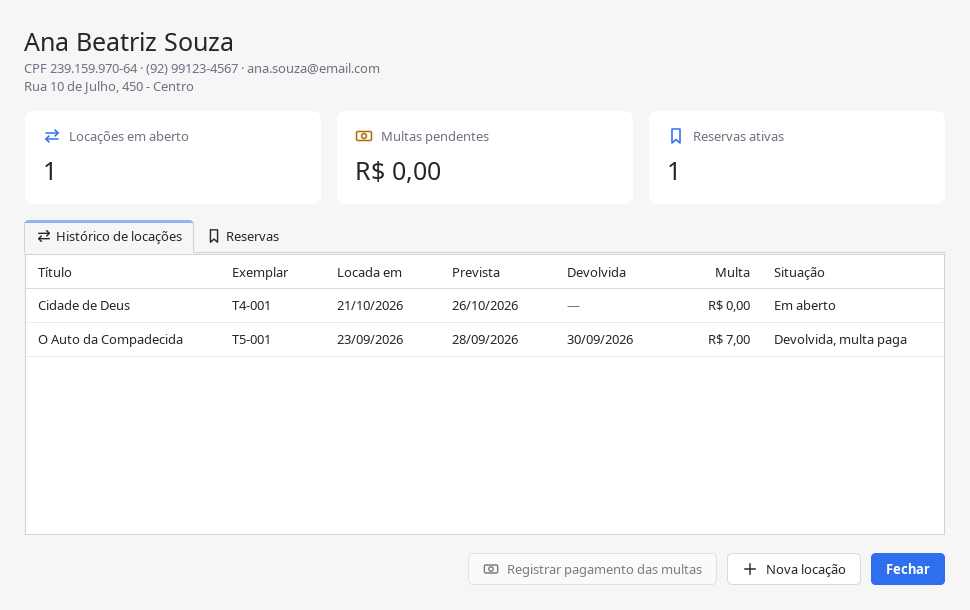
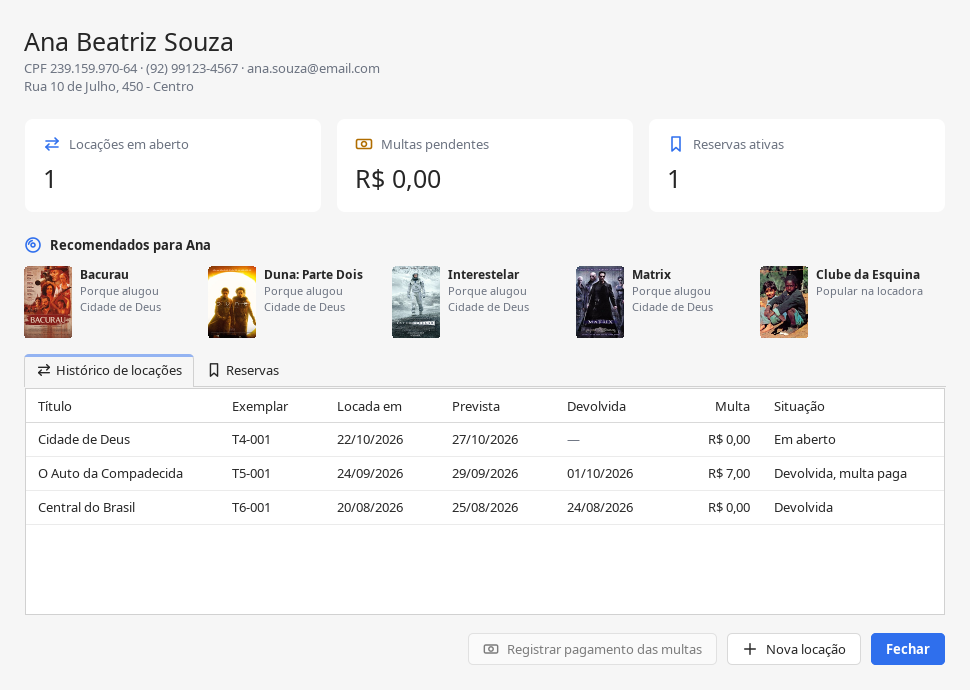
atualiza readme com capas, recomendacoes e busca aproximada

diff --git a/README.md b/README.md
@@ -2,8 +2,8 @@
 
 ![CI](https://github.com/AleJr16/locadora/actions/workflows/ci.yml/badge.svg)
 ![Java 17](https://img.shields.io/badge/Java-17-007396)
-![Testes](https://img.shields.io/badge/testes-156%20passando-brightgreen)
-![Cobertura](https://img.shields.io/badge/cobertura%20(model%2C%20dao%2C%20service)-98%25-brightgreen)
+![Testes](https://img.shields.io/badge/testes-173%20passando-brightgreen)
+![Cobertura](https://img.shields.io/badge/cobertura%20(model%2C%20dao%2C%20service)-97%25-brightgreen)
 
 Sistema desktop para a gestão de uma locadora de **Blu-rays, DVDs, CDs e fitas de vídeo**: acervo, clientes,
 locações e devoluções com multa, fila de reservas, aquisições, perdas e controle de acesso por cargo.
@@ -19,13 +19,15 @@ Autor: **Alexandre Pereira**.
 |---|---|
 | **Login e perfis** | Funcionários entram com login e senha (hash SHA-256 com sal). Gerentes veem tudo; atendentes não registram aquisições, perdas nem funcionários. |
 | **Painel** | Locações em aberto, atrasadas, multas em aberto, faturamento do mês, títulos no acervo e reservas prontas, além das próximas devoluções e das atrasadas. |
-| **Títulos** | Cadastro por tipo de mídia, busca e filtro por tipo, número de exemplares por situação e detalhe com a **linha do tempo** de cada exemplar. |
-| **Clientes** | Cadastro com validação de CPF, ficha com histórico, multas pendentes e reservas. Quem deve multa aparece em vermelho. |
+| **Títulos** | Cadastro por tipo de mídia com **capa e sinopse automáticas** (Wikipédia), busca e filtro por tipo, número de exemplares por situação e detalhe com a **linha do tempo** de cada exemplar. |
+| **Clientes** | Cadastro com validação de CPF, ficha com histórico, multas pendentes, reservas e **recomendações**. Quem deve multa aparece em vermelho. |
+| **Recomendações** | "Quem alugou isso também alugou": sugere títulos que clientes com gosto parecido alugaram, mostrando o porquê ("porque alugou Cidade de Deus"). Sem histórico, sugere os mais alugados. Na nova locação, um clique na sugestão já escolhe o exemplar. |
 | **Locações** | Nova locação (só cliente ativo, sem multa e com até 3 locações abertas), devolução com prévia da multa, pagamento de multa e renovação. |
 | **Reservas** | Fila de espera por título indisponível. Quando um exemplar volta ou é comprado, ele fica separado para o primeiro da fila. |
 | **Aquisições** | Compra de título existente ou novo, gerando exemplares com códigos sequenciais (`T7-004`). |
 | **Perdas** | Exemplar perdido nunca volta a ser alugado. Se estava alugado, o cliente é cobrado do custo mais a multa até a data. |
 | **Busca global** | `Ctrl+K` acha título, cliente (nome ou CPF) ou exemplar (código) e abre a tela certa. |
+| **Busca aproximada** | Todas as buscas ignoram acento e pontuação e toleram erro de digitação: "matirx" acha *Matrix*, "estar wars" acha *Star Wars*. |
 | **Arquivo** | Exportação de qualquer tabela para CSV (abre no Excel com acentos), backup e restauração do banco. |
 | **Interface** | Tema claro e escuro, ícones desenhados em Java2D, atalhos `Ctrl+1…8`, estados vazios e confirmação antes de ações irreversíveis. |
 
@@ -47,7 +49,12 @@ As datas do exemplo são relativas ao dia de hoje, então sempre há locações 
 | `joana` | `joana123` | Atendente |
 | `marcos` | `marcos123` | Atendente |
 
-Para recomeçar do zero, basta apagar o `locadora.db`.
+Para recomeçar do zero, basta apagar o `locadora.db`. Quem rodou uma versão anterior precisa apagá-lo uma vez,
+porque o esquema ganhou a coluna da capa.
+
+**Internet é opcional.** As capas dos títulos de exemplo vêm dentro do jar. Ao cadastrar um título novo, o sistema
+busca a capa e a sinopse na Wikipédia em português depois de uma pausa na digitação. Sem internet, o cadastro
+funciona igual e o título fica com o ícone da mídia no lugar da capa.
 
 ## Arquitetura
 
@@ -147,6 +154,9 @@ SQLite via JDBC puro, sem ORM. O esquema está em `src/main/resources/schema.sql
 - Chaves estrangeiras ligadas em toda conexão.
 - Operações que mexem em várias tabelas (locar, devolver, adquirir, perder, cancelar reserva) rodam numa transação
   só, com `commit` ou `rollback`.
+- A capa do título fica numa coluna `BLOB`, que também serve de cache da busca na internet.
+- As recomendações são **uma consulta SQL** (filtragem colaborativa item a item): pega os títulos que o cliente
+  alugou, acha os outros clientes que alugaram algum deles e conta o que esses clientes alugaram e ele ainda não.
 
 ## Testes
 
@@ -154,7 +164,7 @@ O projeto foi desenvolvido com **TDD**: cada regra nasceu de um teste vermelho (
 até passar (`implementa …`). O histórico do git mostra os dois passos.
 
 ```bash
-mvn verify      # 154 testes + relatório de cobertura em target/site/jacoco/index.html
+mvn verify      # 173 testes + relatório de cobertura em target/site/jacoco/index.html
 ```
 
 - `model`: regras puras (multa polimórfica, CPF, senha, transições).
@@ -167,9 +177,10 @@ O build falha se a cobertura de linhas de `model` ou `service` cair abaixo de 80
 
 | | |
 |---|---|
+| ![Títulos com capa](docs/telas/titulos-claro.png) | ![Nova locação com sugestões](docs/telas/nova-locacao-escolhida-escuro.png) |
 | ![Login](docs/telas/login-claro.png) | ![Locações](docs/telas/locacoes-claro.png) |
-| ![Detalhe do título com linha do tempo](docs/telas/titulo-detalhe-escuro.png) | ![Busca global](docs/telas/busca-global-escuro.png) |
-| ![Ficha do cliente](docs/telas/cliente-ficha-claro.png) | ![Painel no tema escuro](docs/telas/painel-escuro.png) |
+| ![Detalhe do título com capa e linha do tempo](docs/telas/titulo-detalhe-escuro.png) | ![Busca global](docs/telas/busca-global-escuro.png) |
+| ![Ficha do cliente com recomendações](docs/telas/cliente-ficha-claro.png) | ![Painel no tema escuro](docs/telas/painel-escuro.png) |
 
 ## Estrutura
 
@@ -182,6 +193,7 @@ src/main/java/locadora/
   view/            login, janela principal, telas, diálogos e componentes
 src/main/resources/
   schema.sql  seed.sql  locadora/tema/FlatLaf.properties
+  capas/           capas dos títulos de exemplo
 src/test/java/locadora/
   model/  dao/  service/   testes JUnit
   view/CapturaTelas.java   gera as imagens das telas nos dois temas
@@ -189,4 +201,7 @@ src/test/java/locadora/
 
 ## Tecnologias
 
-Java 17 · Swing · [FlatLaf](https://www.formdev.com/flatlaf/) · SQLite (`sqlite-jdbc`) · Maven · JUnit · JaCoCo · GitHub Actions
+Java 17 · Swing · [FlatLaf](https://www.formdev.com/flatlaf/) · SQLite (`sqlite-jdbc`) ·
+[FuzzyWuzzy](https://github.com/xdrop/fuzzywuzzy) (busca aproximada) · Maven · JUnit · JaCoCo · GitHub Actions
+
+Capas e sinopses: [Wikipédia em português](https://pt.wikipedia.org), usadas para fins acadêmicos.
